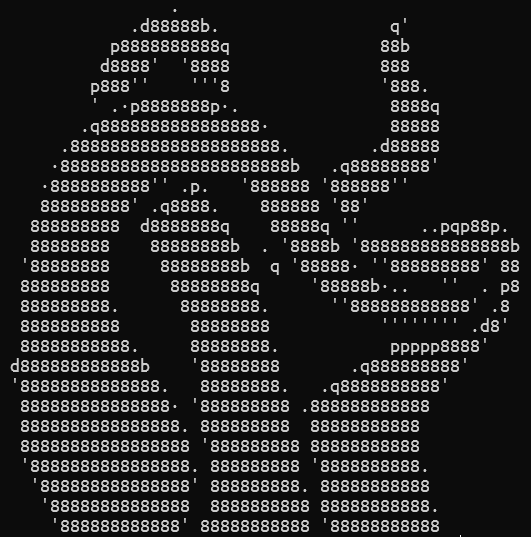
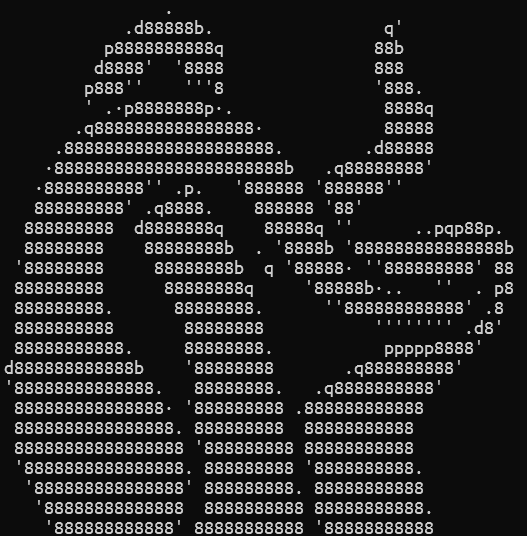
Practical example size and position

Changed region(s): [[0.0, 0.0299, 1.0, 1.0]]

diff --git a/docs/tutorial/tutorial-size-position.md b/docs/tutorial/tutorial-size-position.md
@@ -4,19 +4,63 @@
 
 There are multiple options to change the size of the final result:
 
-- `-w, --wc <WIDTH_IN_CHARS>` This is number of characters the final result with have per line.
-- `-h, --hc <HEIGHT_IN_CHARS>` This is the number of lines the final result will have.
-- `--wp <WIDTH_IN_PIXELS>` This is is width in pixels you want the image to have.
-- `--hp <HEIGHT_IN_PIXELS>` This is the height in pixels you want the image to have.
+-   `-w, --wc <WIDTH_IN_CHARS>` This is number of characters the final result with have per line.
+-   `-h, --hc <HEIGHT_IN_CHARS>` This is the number of lines the final result will have.
+-   `--wp <WIDTH_IN_PIXELS>` This is is width in pixels you want the image to have.
+-   `--hp <HEIGHT_IN_PIXELS>` This is the height in pixels you want the image to have.
 
 The size in characters overrides the size in pixels, and if you only change one dimension, the aspect ratio will be kept.
 
-## Adjusting position.
+## Adjusting position
 
 Sometimes the image is not in the position we want. To fix it we can change the padding.
 
-- `--center` Automatically adjusts the padding so the image is centered.
-- `--padx <PADDING_X>` Specifies more padding to be added on the x axis.
-- `--pady <PADDING_Y>` Specifies more padding to be added on the y axis.
+-   `--center` Automatically adjusts the padding so the image is centered.
+-   `--padx <PADDING_X>` Specifies more padding to be added on the x axis.
+-   `--pady <PADDING_Y>` Specifies more padding to be added on the y axis.
 
 The padding will be treated in the same way as a transparent color, and the padding you specify manually will be added to the one calculated on `--center`.
+
+## Practical example
+
+Lets revisit the example of the tentacles:
+
+![Tentacles](../../images/sources/tentacles.png)
+
+This image fits perfectly, there is no need to align it, but when we render it we might notice some characters that seem out of place on the left part of the photo:
+
+```bash
+l2a '.\images\tentacles.png' -b all -c
+```
+
+![Tentacles](../../images/ascii/tentacles_b_all_c.png)
+
+That letter `d` is sticking a bit too much.
+
+Lets see what is happening behind the scenes by saving the final image.
+
+```bash
+l2a '.\images\tentacles.png' -b all -c -o test.png
+```
+
+![Tentacles final](../../images/final/tentacles_b_all.png)
+
+The border of the red tentacles is touching the left border of the image, so no border is detected there. The same thing happens with the blue tentacle on the right border.
+
+We can fix this by adding padding in the x direction.
+
+```bash
+l2a '.\images\tentacles.png' -b all -c --padx 1 -o
+```
+
+![Tentacles padx1](../../images/ascii/tentacles_b_all_c_padx1.png)
+
+The `d` has disappeared.
+ 
+```bash
+l2a '.\images\tentacles.png' -b all -c --padx 1 -o test2.png
+```
+
+![Tentacles final padx1](../../images/final/tentacles_b_all_padx1.png)
+
+We can see that all the borders have been detected (except the ones at the bottom, it is left as an exercise to the reader).

diff --git a/docs/tutorial/tutorial-borders.md b/docs/tutorial/tutorial-borders.md
@@ -1,6 +1,6 @@
 # Tutorial: Borders
 
-This app has a simple border detection mechanism. You can see a more technical implementation in [how it works](../how-it-works.md#2-preprocessing-if-any). 
+This app has a simple border detection mechanism. You can see a more technical implementation in [how it works](../how-it-works.md#2-preprocessing-if-any).
 
 Here is an explanation about which parameters you can use and some recommendations.
 
@@ -10,15 +10,15 @@ Here is an explanation about which parameters you can use and some recommendatio
 
 The argument `-b, --borders <BORDER_CRITERIA>` decides how borders are identified. There are 3:
 
-- `color`: Measures by hue difference.
-- `brightness`: Measures the brightness difference.
-- `all`: Checks for both of them.
+-   `color`: Measures by hue difference.
+-   `brightness`: Measures the brightness difference.
+-   `all`: Checks for both of them.
 
 It is recommended to use `all`, specially if working with transparent images.
 
 When working with transparent images, the first thing the app does it convert the transparent pixels to black (or white with the `-v, --visible` flag), and if you calculate the hue of the black color it is the same as the red color, so it will not detect borders there.
 
-Something similar happens when working with black logos, but you can detect the borders by using the `-v, --visible` flag. You can pair it with the `-n, --negative` flag to invert the brightness and print the logo.
+Something similar happens when working with black logos, but you can detect the borders by using the `-v, --visible` flag.
 
 ### Border thickness
 
@@ -30,5 +30,9 @@ If not specified its default value is the width of a block.
 
 There is one threshold for color and other for brightness.
 
-- `--color-diff <COLOR_DIFF>`: From 0 to 360, if the value is greater than 360 it will be the remainder.
-- `--brightness-diff <BRIGHTNESS_DIFF>`: From 0 to 1, it is a float.
+-   `--color-diff <COLOR_DIFF>`: From 0 to 360, if the value is greater than 360 it will be the remainder.
+-   `--brightness-diff <BRIGHTNESS_DIFF>`: From 0 to 1, it is a float.
+
+## Recommendations
+
+If there are borders close the to the actual borders of the image there might be artifacts. You should check out [this](tutorial-size-position.md#practical-example).

diff --git a/readme.md b/readme.md
@@ -1,6 +1,6 @@
 <div>
 <img src="./images/ascii/cross_dict_box_all.png" height="400"/>
-<img src="./images/ascii/tentacles_ball_c_a=_padx9_pady8.png" height="400"/>
+<img src="./images/ascii/tentacles_b_all_c_padx1.png" height="400"/>
 </div>
 
 # Logo to ASCII
